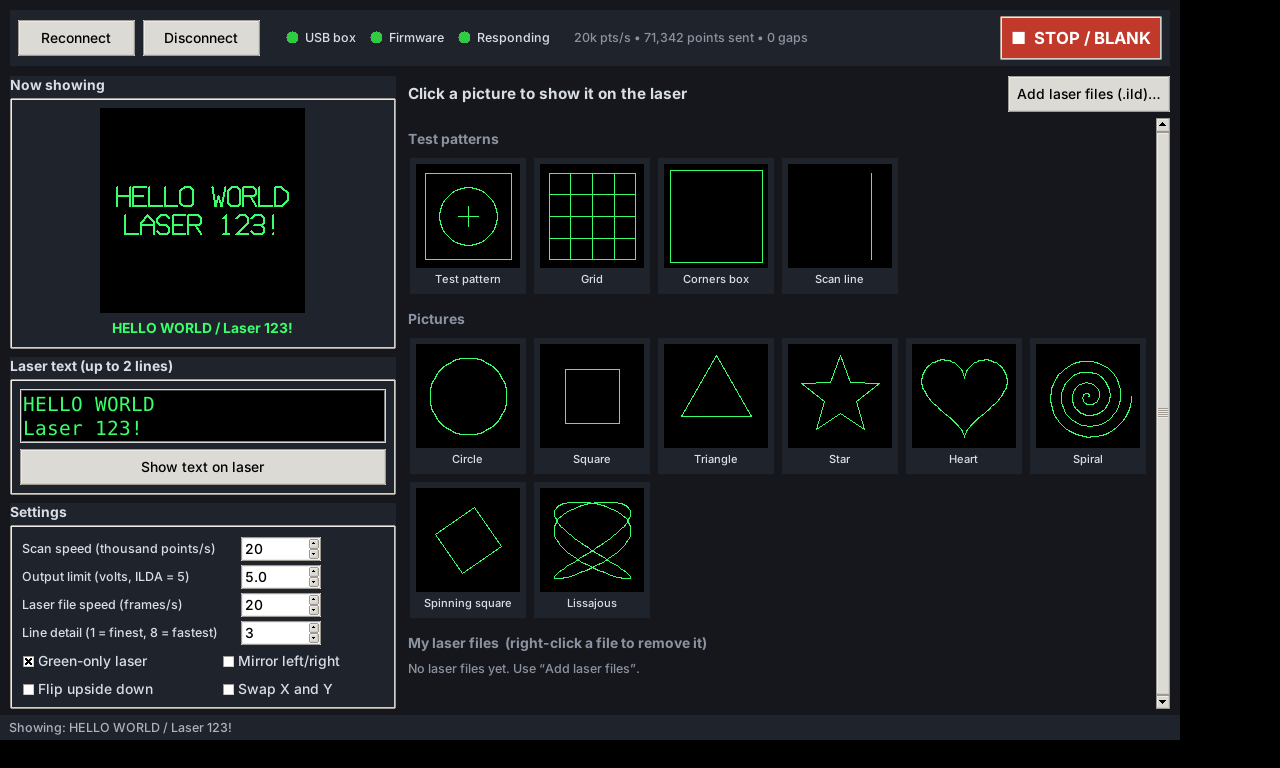
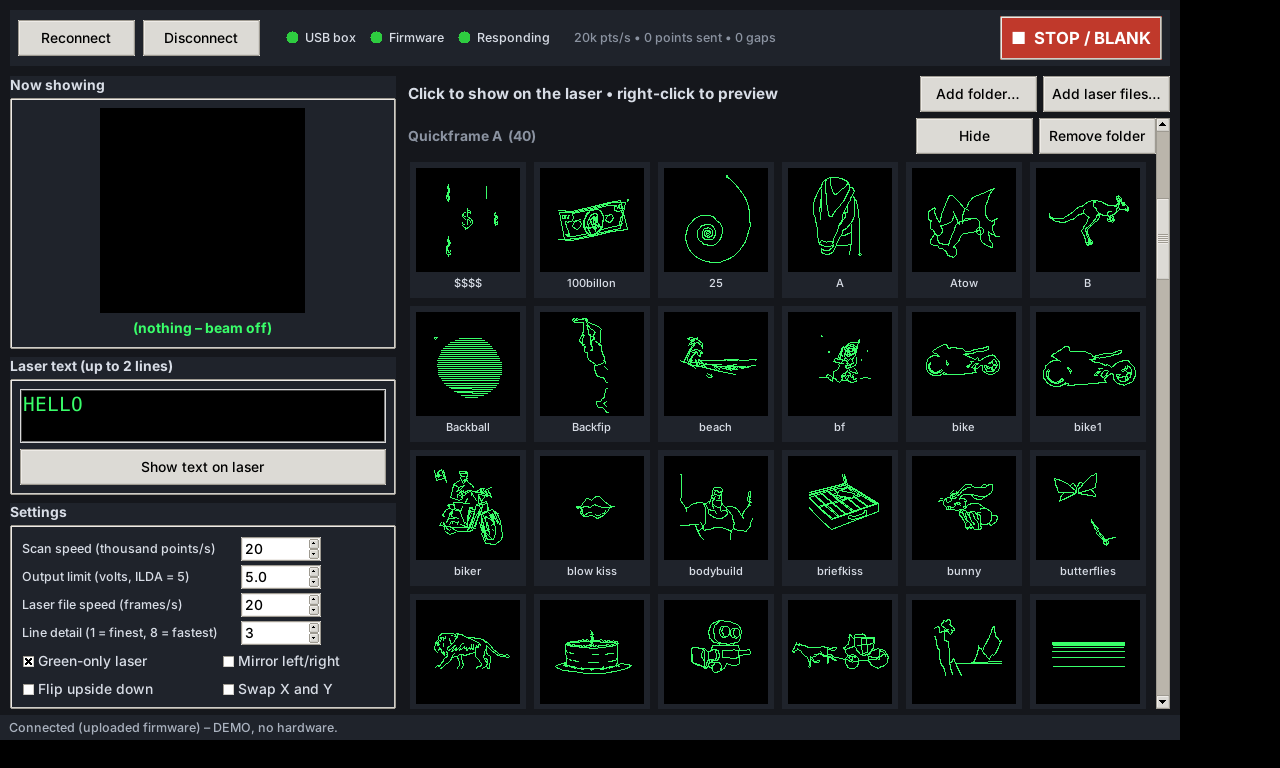
Import iShow II's own formats: Quickframe/Frames (.ilf) and Drawing (.ddr)
ishow_formats.py reads .ilf text animations and .ddr binary drawings
(x/y 0-255 with y down, start/end flags, 7-colour palette, corner marks)
into points flagged for on-chip line drawing, like the original. All
2,785 files in ishow_content parse cleanly. The app auto-links
Quickframe A/B/C, Frames, ILDA images and Drawings as named sections;
sections over 500 files (Drawings) start collapsed behind 'Show all'.
Add laser files accepts .ilf/.ddr. Tested in demo mode on the real content.

Claude-Session: https://claude.ai/code/session_01Peu8MM83rYA9VvaQhXvkfR

diff --git a/ishow/ishow_app.py b/ishow/ishow_app.py
@@ -44,15 +44,32 @@ ISHOW_HOMES = [CONTENT_DIR, r"C:\iShowII_EN", r"C:\iShowII", r"C:\iShow",
                r"C:\Program Files\iShow", r"C:\Program Files (x86)\iShow"]
 
 
+ISHOW_SUBFOLDERS = [os.path.join("Quickframe", "A"), os.path.join("Quickframe", "B"),
+                    os.path.join("Quickframe", "C"), "Frames", "ILDAimage", "Drawing"]
+
+
 def find_ishow_folders():
-    """iShow II content folders that hold .ild files (ILDAimage), from the usual locations."""
-    found = []
+    """iShow II content folders (Quickframe A/B/C, Frames, ILDAimage, Drawing), from the usual
+    locations. The first location that has a folder wins, so nothing is listed twice."""
+    found, seen = [], set()
     for home in ISHOW_HOMES:
-        for sub in ("ILDAimage", "ILDA", "Ilda"):
+        for sub in ISHOW_SUBFOLDERS:
             folder = os.path.join(home, sub)
-            if os.path.isdir(folder) and folder not in found:
+            if sub not in seen and os.path.isdir(folder):
                 found.append(folder)
+                seen.add(sub)
     return found
+
+
+def folder_title(folder):
+    name = os.path.basename(folder) or folder
+    parent = os.path.basename(os.path.dirname(folder))
+    if parent.lower() == "quickframe":
+        return f"Quickframe {name}"
+    return {"Drawing": "Drawings", "ILDAimage": "ILDA images", "Frames": "Frames"}.get(name, f"Folder: {name}")
+
+
+COLLAPSE_ABOVE = 500   # sections with more files than this start collapsed (Drawing: 2,629)
 
 BG, PANEL, BEAM = "#15171c", "#1f232b", "#39ff6a"
 PREVIEW = 205   # size of the "Now showing" preview, in pixels
@@ -411,7 +428,7 @@ class App:
         head.pack(fill="x")
         tk.Label(head, text="Click to show on the laser \u2022 right-click to preview", bg=BG, fg="#d8dde6",
                  font=("Segoe UI", 11, "bold")).pack(side="left")
-        ttk.Button(head, text="Add laser files (.ild)…", command=self.add_files).pack(side="right")
+        ttk.Button(head, text="Add laser files…", command=self.add_files).pack(side="right")
         ttk.Button(head, text="Add folder…", command=self.add_folder).pack(side="right", padx=6)
         self.scroll = ScrollFrame(right)
         self.scroll.pack(fill="both", expand=True, pady=(6, 0))
@@ -471,7 +488,7 @@ class App:
     def _load_library_files(self):
         os.makedirs(LIBRARY_DIR, exist_ok=True)
         for name in sorted(os.listdir(LIBRARY_DIR)):
-            if name.lower().endswith(".ild"):
+            if name.lower().endswith(patterns.LASER_FILE_TYPES):
                 try:
                     self._add_file_item(os.path.join(LIBRARY_DIR, name))
                 except Exception as e:  # noqa: BLE001
@@ -479,7 +496,7 @@ class App:
         self._relayout_files()
 
     def _add_file_item(self, path):
-        item = patterns.ilda_item(path, lazy=True)
+        item = patterns.file_item(path, lazy=True)
         item.fps = self.settings["file_fps"]
         self._add_tile(self.sec_files, item, removable=True)
 
@@ -495,7 +512,7 @@ class App:
         if folder in self.settings["removed_folders"]:
             self.settings["removed_folders"].remove(folder)
         if not self._ild_files(folder):
-            messagebox.showinfo(APP_NAME, "No .ild laser files in that folder.")
+            messagebox.showinfo(APP_NAME, "No laser files (.ild, .ilf, .ddr) in that folder.")
             return
         self.settings["folders"].append(folder)
         self._save_settings()
@@ -517,19 +534,40 @@ class App:
     @staticmethod
     def _ild_files(folder):
         try:
-            return sorted((n for n in os.listdir(folder) if n.lower().endswith(".ild")), key=str.lower)
+            return sorted((n for n in os.listdir(folder) if n.lower().endswith(patterns.LASER_FILE_TYPES)),
+                          key=str.lower)
         except OSError:
             return []
 
     def _open_folder(self, folder):
         names = self._ild_files(folder)
-        title = f"Folder: {os.path.basename(folder) or folder}  ({len(names)} files)"
+        title = f"{folder_title(folder)}  ({len(names)})"
         if not names:
             title += " – not found"
         sec = self._section(title, on_remove=lambda f=folder: self.remove_folder(f))
+        sec.paths = [os.path.join(folder, n) for n in names]
+        sec.shown = len(names) <= COLLAPSE_ABOVE
+        sec.toggle = ttk.Button(sec.head, command=lambda s=sec: self._toggle_section(s))
+        sec.toggle.pack(side="right", padx=6)
         self.folder_sections[folder] = sec
+        self._show_section(sec, sec.shown)
+
+    def _show_section(self, sec, show):
+        sec.shown = show
+        sec.toggle.config(text="Hide" if show else f"Show all {len(sec.paths)}")
+        if show:
+            if not sec.tiles:
+                self._queue_tiles(sec)
+            sec.pack(fill="x", after=sec.head)
+        else:
+            sec.pack_forget()
+
+    def _toggle_section(self, sec):
+        self._show_section(sec, not sec.shown)
+
+    def _queue_tiles(self, sec):
         start = not self.pending_tiles
-        self.pending_tiles += [(sec, os.path.join(folder, n)) for n in names]
+        self.pending_tiles += [(sec, p) for p in sec.paths]
         if start and self.pending_tiles:
             self.root.after(10, self._build_pending_tiles)
 
@@ -542,7 +580,7 @@ class App:
             if not sec.winfo_exists():
                 continue
             try:
-                item = patterns.ilda_item(path, lazy=True)
+                item = patterns.file_item(path, lazy=True)
                 item.fps = self.settings["file_fps"]
                 self._add_tile(sec, item)
             except Exception as e:  # noqa: BLE001 - a bad file shouldn't stop the rest
@@ -574,11 +612,12 @@ class App:
 
     def add_files(self):
         paths = filedialog.askopenfilenames(title="Add laser files",
-                                            filetypes=[("ILDA laser files", "*.ild *.ILD"), ("All files", "*.*")])
+                                            filetypes=[("Laser files", "*.ild *.ILD *.ilf *.ddr *.DDR"),
+                                                       ("All files", "*.*")])
         added = 0
         for src in paths:
             try:
-                patterns.ilda_item(src, lazy=True)   # validate before copying
+                patterns.file_item(src, lazy=True)   # validate before copying
                 dest = os.path.join(LIBRARY_DIR, os.path.basename(src))
                 base, ext = os.path.splitext(dest)
                 n = 2
@@ -590,7 +629,7 @@ class App:
                 added += 1
             except Exception as e:  # noqa: BLE001
                 messagebox.showerror(APP_NAME, f"Couldn't read {os.path.basename(src)}:\n{e}\n\n"
-                                               "Only ILDA (.ild) files are supported.")
+                                               "Supported: ILDA (.ild) and iShow (.ilf, .ddr) files.")
         self._relayout_files()
         if added:
             self.log(f"Added {added} laser file(s).")

diff --git a/ishow/ishow_formats.py b/ishow/ishow_formats.py
@@ -1,0 +1,92 @@
+"""Readers for the original iShow II content formats.
+
+.ilf  (Quickframe, Frames)  text animations:
+        [DrawingList]
+        DrawingName=0
+        x,y,z,colour,0,flags|x,y,z,colour,0,flags|...
+        DrawingName=1
+        ...
+.ddr  (Drawing)  one binary frame, 5 bytes per point: x, y, corner, colour, flags
+
+x and y are 0..255 in the box's DAC scale, with y = 0 at the TOP (screen style).
+flags: bit 0 = start of a new line (jump there with the beam off), 128 = last point.
+colour: 0 = beam off; 1..7 = the classic 7-colour laser palette (more in .ilf files,
+whose larger palette numbers aren't decoded yet and are drawn white).
+corner (.ddr): 2 = sharp corner, pause there so the corner stays crisp.
+
+The points come out flagged for the box's on-chip line drawing, which is how the
+original iShow II drove the hardware (a jump or a line to each point).
+"""
+from ishow_dac import Point
+
+# 7-colour laser palette (red, green, blue, yellow, cyan, magenta, white): our best
+# reading of iShow's colour numbers; the green-only setting makes all of them green.
+PALETTE = {1: (1, 0, 0), 2: (0, 1, 0), 3: (0, 0, 1), 4: (1, 1, 0), 5: (0, 1, 1), 6: (1, 0, 1), 7: (1, 1, 1)}
+JUMP_DWELL, START_DWELL, CORNER_DWELL = 3, 2, 3
+
+
+def _xy(x, y):
+    return (x - 127.5) / 127.5, (127.5 - y) / 127.5
+
+
+def _rgb(c):
+    if c == 0:
+        return (0, 0, 0)
+    return PALETTE.get(c, (1, 1, 1))
+
+
+def points_from_records(records):
+    """records: (x, y, colour, flags, corner) -> laser points for one frame."""
+    pts = []
+    for x, y, colour, flags, corner in records:
+        X, Y = _xy(x, y)
+        r, g, b = _rgb(colour)
+        if flags & 1 or not pts:                      # start of a line: blanked jump
+            pts.append(Point(X, Y, line=True))
+            pts += [Point(X, Y)] * JUMP_DWELL
+            if colour:
+                pts += [Point(X, Y, r, g, b)] * START_DWELL
+        else:
+            pts.append(Point(X, Y, r, g, b, line=True))
+            if corner:
+                pts += [Point(X, Y, r, g, b)] * CORNER_DWELL
+        if flags & 128:                               # end of the frame: beam off
+            pts.append(Point(X, Y))
+    return pts or [Point(0, 0)]
+
+
+def _ilf_records(line):
+    recs = []
+    for p in line.strip().strip("|").split("|"):
+        v = p.split(",")
+        if len(v) >= 6:
+            try:
+                x, y, _z, c, _u, f = (int(a) for a in v[:6])
+            except ValueError:
+                continue
+            recs.append((max(0, min(255, x)), max(0, min(255, y)), c, f, 0))
+    return recs
+
+
+def read_ilf(path, max_frames=None):
+    frames = []
+    with open(path, "rb") as f:
+        for raw in f:
+            line = raw.decode("latin-1")
+            if "|" in line:
+                recs = _ilf_records(line)
+                if recs:
+                    frames.append(points_from_records(recs))
+                    if max_frames and len(frames) >= max_frames:
+                        break
+    return frames
+
+
+def read_ddr(path, max_frames=None):
+    data = open(path, "rb").read()
+    recs = [(data[i], data[i + 1], data[i + 3], data[i + 4], data[i + 2] == 2)
+            for i in range(0, len(data) - 4, 5)]
+    return [points_from_records(recs)] if recs else []
+
+
+READERS = {".ilf": read_ilf, ".ddr": read_ddr}

diff --git a/ishow/patterns.py b/ishow/patterns.py
@@ -150,8 +150,7 @@ class LibraryItem:
     def load(self):
         """Read the whole file (can take a moment for big .ild files)."""
         if not self.loaded and self.path:
-            from ilda import read_ilda
-            frames = read_ilda(self.path)
+            frames = read_laser_file(self.path)
             if not frames:
                 raise ValueError("no frames in file")
             self.frames = frames
@@ -209,6 +208,35 @@ def builtin_items():
 def text_item(lines):
     lines = [ln for ln in lines if ln.strip()][:2]
     return static(" / ".join(lines) or "(empty)", text_strokes(lines), "text")
+
+
+LASER_FILE_TYPES = (".ild", ".ilf", ".ddr")   # ILDA, iShow animations, iShow drawings
+
+
+def read_laser_file(path, max_frames=None):
+    ext = os.path.splitext(path)[1].lower()
+    if ext == ".ild":
+        from ilda import read_ilda
+        return read_ilda(path, max_frames)
+    from ishow_formats import READERS
+    if ext not in READERS:
+        raise ValueError(f"unsupported file type {ext}")
+    return READERS[ext](path, max_frames)
+
+
+def file_item(path, lazy=False):
+    """Any supported laser file as a library item. lazy=True reads only the first frame now
+    (for previews); the rest is read by item.load() when it's first shown."""
+    name = os.path.splitext(os.path.basename(path))[0]
+    if lazy:
+        first = read_laser_file(path, max_frames=1)
+        if not first:
+            raise ValueError("no frames in file")
+        return LibraryItem(name, fps=20, path=path, kind="file", first=first[0])
+    frames = read_laser_file(path)
+    if not frames:
+        raise ValueError("no frames in file")
+    return LibraryItem(name, frames=frames, fps=20, path=path, kind="file")
 
 
 def ilda_item(path, lazy=False):

diff --git a/ishow/ishow_content/README.md b/ishow/ishow_content/README.md
@@ -5,14 +5,16 @@ Copy these folders from the unpacked iShow II (`C:\iShowII_EN`) into this folder
 | Folder | What it is | Used by the app |
 |---|---|---|
 | `ILDAimage` | 476 standard `.ild` laser shows and pictures | **Yes**: linked automatically as a library section |
-| `Quickframe` (with `A`, `B`, `C` inside) | iShow's "quick frame" pads (`.ilf`) | Planned (importer needs a sample file) |
-| `Frames` | More `.ilf` animations | Planned |
-| `Drawing` | iShow's drawing library (`.ddr`) | Planned |
+| `Quickframe` (with `A`, `B`, `C` inside) | iShow's "quick frame" animations (`.ilf`) | **Yes**: a section each for A, B and C |
+| `Frames` | More `.ilf` animations | **Yes** |
+| `Drawing` | iShow's drawing library (2,629 `.ddr` pictures) | **Yes**: collapsed at first, click **Show all** |
 | `Effect`, `EffectLIST` | Movement effects (rotate, bounce, ...) | Planned |
 | `Section`, `Sequence` | Show programming | Planned |
 
 Not needed: `Music` (MP3s), `DrivesII` (32-bit drivers that can't load on Windows 11), and
 `iShowII_En.exe`, `iShow.ini` and `start1.bmp`.
 
-When the app starts it looks here (and in `C:\iShowII_EN`) and adds `ILDAimage` to the library on
+When the app starts it looks here (and in `C:\iShowII_EN`) and adds these folders to the library on
 its own. If you remove the folder in the app, it stays removed.
+
+Formats: see `ishow_formats.py` (`.ilf` text animations, `.ddr` binary drawings).

diff --git a/ishow/README.md b/ishow/README.md
@@ -16,9 +16,10 @@ python ishow_app.py --demo     # try it without hardware
 - **Laser text**: type up to two lines, then **Show text on laser**.
 - **Test patterns** and **Pictures**: click any tile to show it.
 - **Add laser files (.ild)**: imported files get a preview icon and are kept in `laser_files/`.
-- **Original iShow II content**: copy iShow II's `ILDAimage` folder (and the others listed in
-  `ishow_content/README.md`) into `ishow_content/`. The app adds them to the library on its own,
-  and also finds an unpacked `C:\iShowII_EN`.
+- **Original iShow II content** (in `ishow_content/`) is added to the library automatically, as
+  sections: Quickframe A/B/C and Frames (iShow's `.ilf` animations), ILDA images (476 `.ild`
+  files) and Drawings (2,629 `.ddr` pictures, collapsed until you click **Show all**). An unpacked
+  `C:\iShowII_EN` is found too. **Add laser files** also accepts `.ilf` and `.ddr`.
 - **Add folder…**: link a whole folder of `.ild` files, for example iShow II's `ILDAimage` folder
   (476 files). The files stay where they are. Icons appear a few at a time, and a file is only
   loaded in full when you show or preview it. **Remove folder** unlinks it (no files are deleted).

diff --git a/ishow/BOARD.md b/ishow/BOARD.md
@@ -193,6 +193,12 @@ writes on endpoint 2. Decoded from both ends (the program's calls and the firmwa
 
 The resources hold only UI forms and bitmaps. There's no built-in pattern library in the .exe.
 
+iShow's content formats (decoded from the files, read by `ishow_formats.py`): `.ilf` is text, with
+`DrawingName=N` frames of `x,y,z,colour,0,flags|...` points. `.ddr` is binary, 5 bytes per point:
+`x, y, corner, colour, flags`. x/y are 0–255 with y = 0 at the top. flags bit 0 = start of a line
+(blank jump), 128 = last point. colour 0 = off, 1–7 = the 7-colour palette. These are the same
+jump/line steps the firmware's `[colour, type, X, Y]` records use.
+
 ## Test firmware note
 
 The first test program (pinwiggle) used the FX2's 0xA0 memory request while the 8051 was running.
